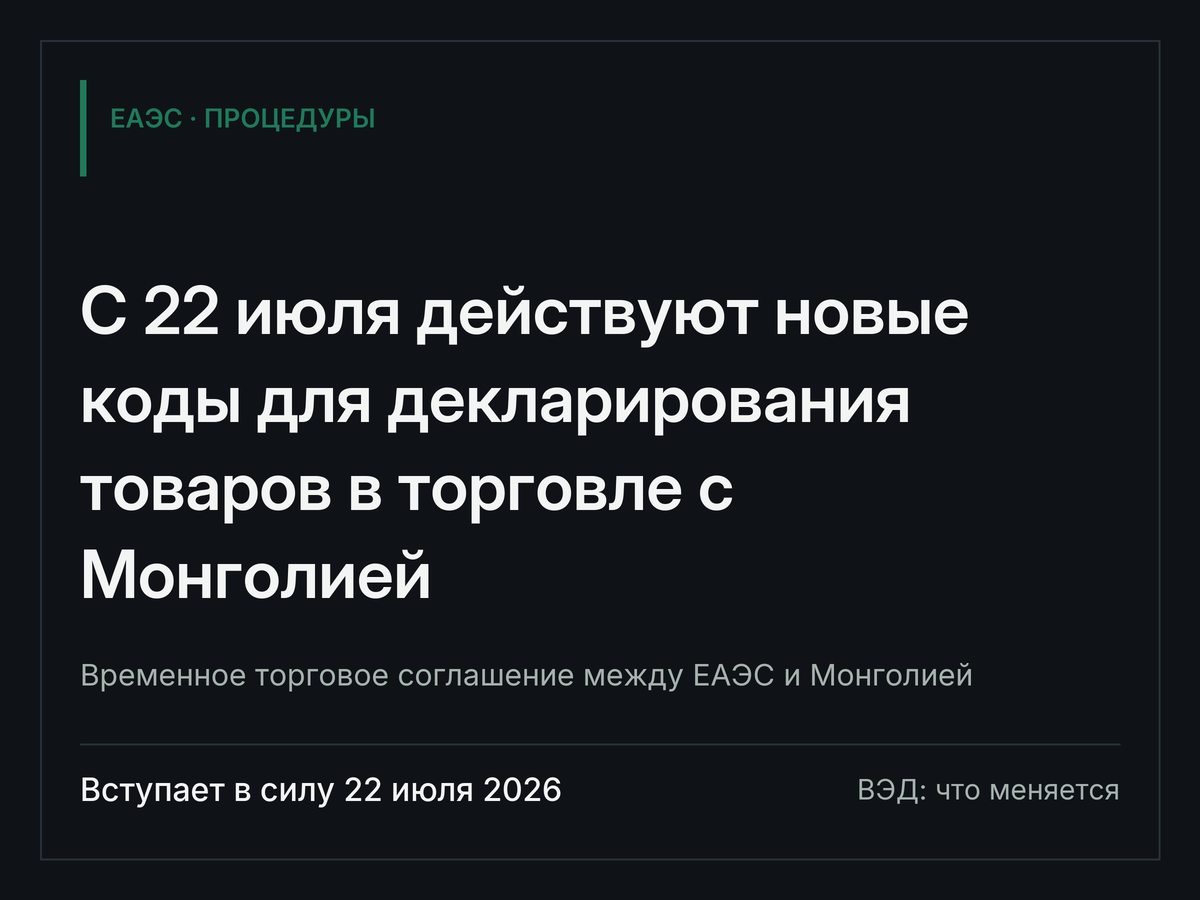
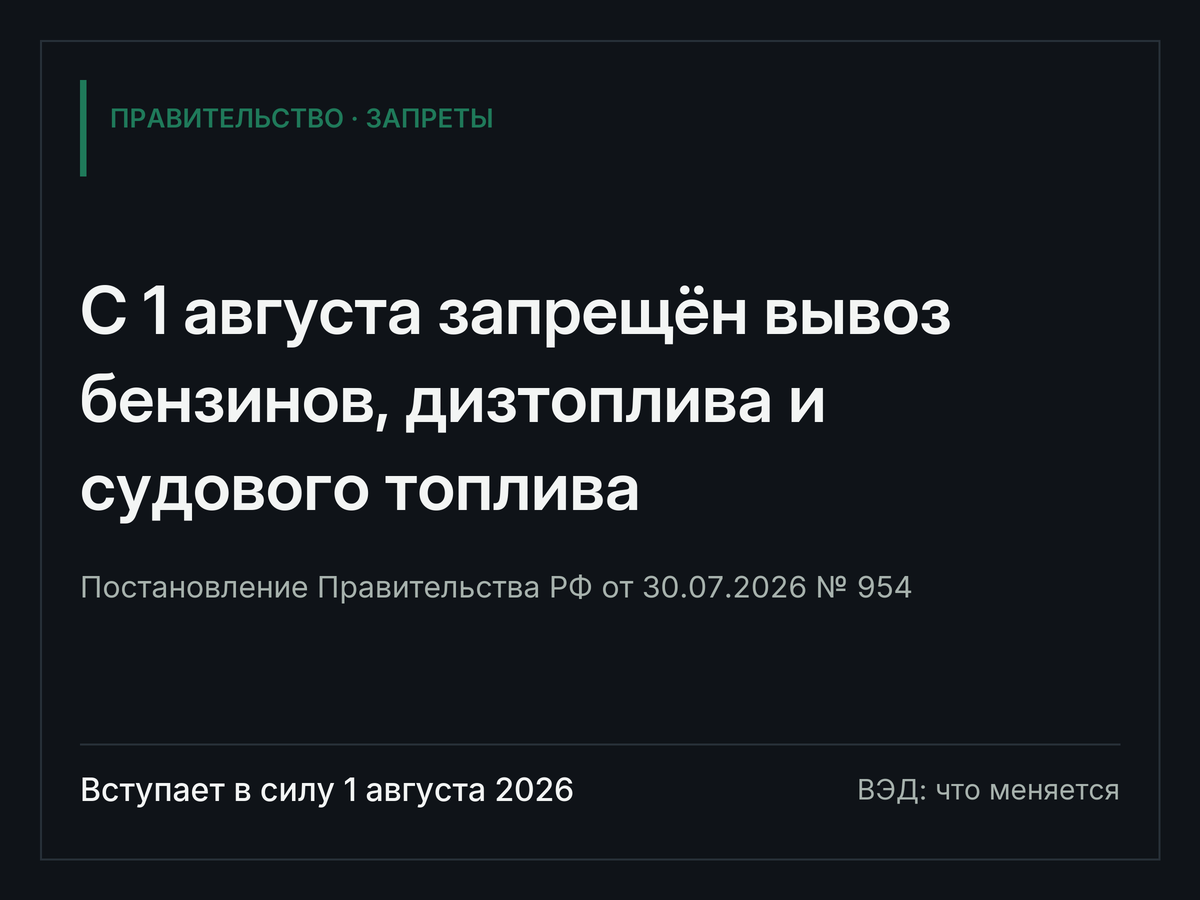
дедуп по темам

diff --git a/tools/build_outbox.py b/tools/build_outbox.py
@@ -27,6 +27,7 @@ from db.session import get_session                       # noqa: E402
 from llm_provider import build_default_router            # noqa: E402
 from tools.topical import topical_skip
 from tools.autogate import risky, strip_unsupported
+from services.memory.subjects import fingerprint, similarity
 from ranking.scorers.ved_extract import extract          # noqa: E402
 from services.editorial.ved_generator import generate    # noqa: E402
 
@@ -202,6 +203,11 @@ def main() -> int:
 
     router = build_default_router()
     ready, held, skipped, cached, llm_calls = [], [], 0, 0, 0
+    _recent = []
+    for _h, in session.execute(text(
+            "SELECT headline FROM published_stories "
+            "WHERE published_at > now() - interval '48 hours'")):
+        _recent.append((fingerprint(_h or ''), _h or ''))
 
     for item_id, title, body, url, src_name in rows:
         if len(ready) >= a.max_posts:
@@ -244,6 +250,17 @@ def main() -> int:
         if not draft.ok:
             print("- брак: %s (%s)" % (title[:40], "; ".join(draft.problems)[:50]))
             continue
+
+        _fp = fingerprint(draft.headline)
+        _dup = None
+        for _pfp, _ph in _recent:
+            if similarity(_fp, _pfp) >= 0.30:
+                _dup = _ph
+                break
+        if _dup:
+            print("- тема уже освещалась: %s" % _dup[:44])
+            continue
+        _recent.append((_fp, draft.headline))
 
         _post = {"title": draft.headline, "text": draft.render()}
         _hold = risky(_post, change, body)
